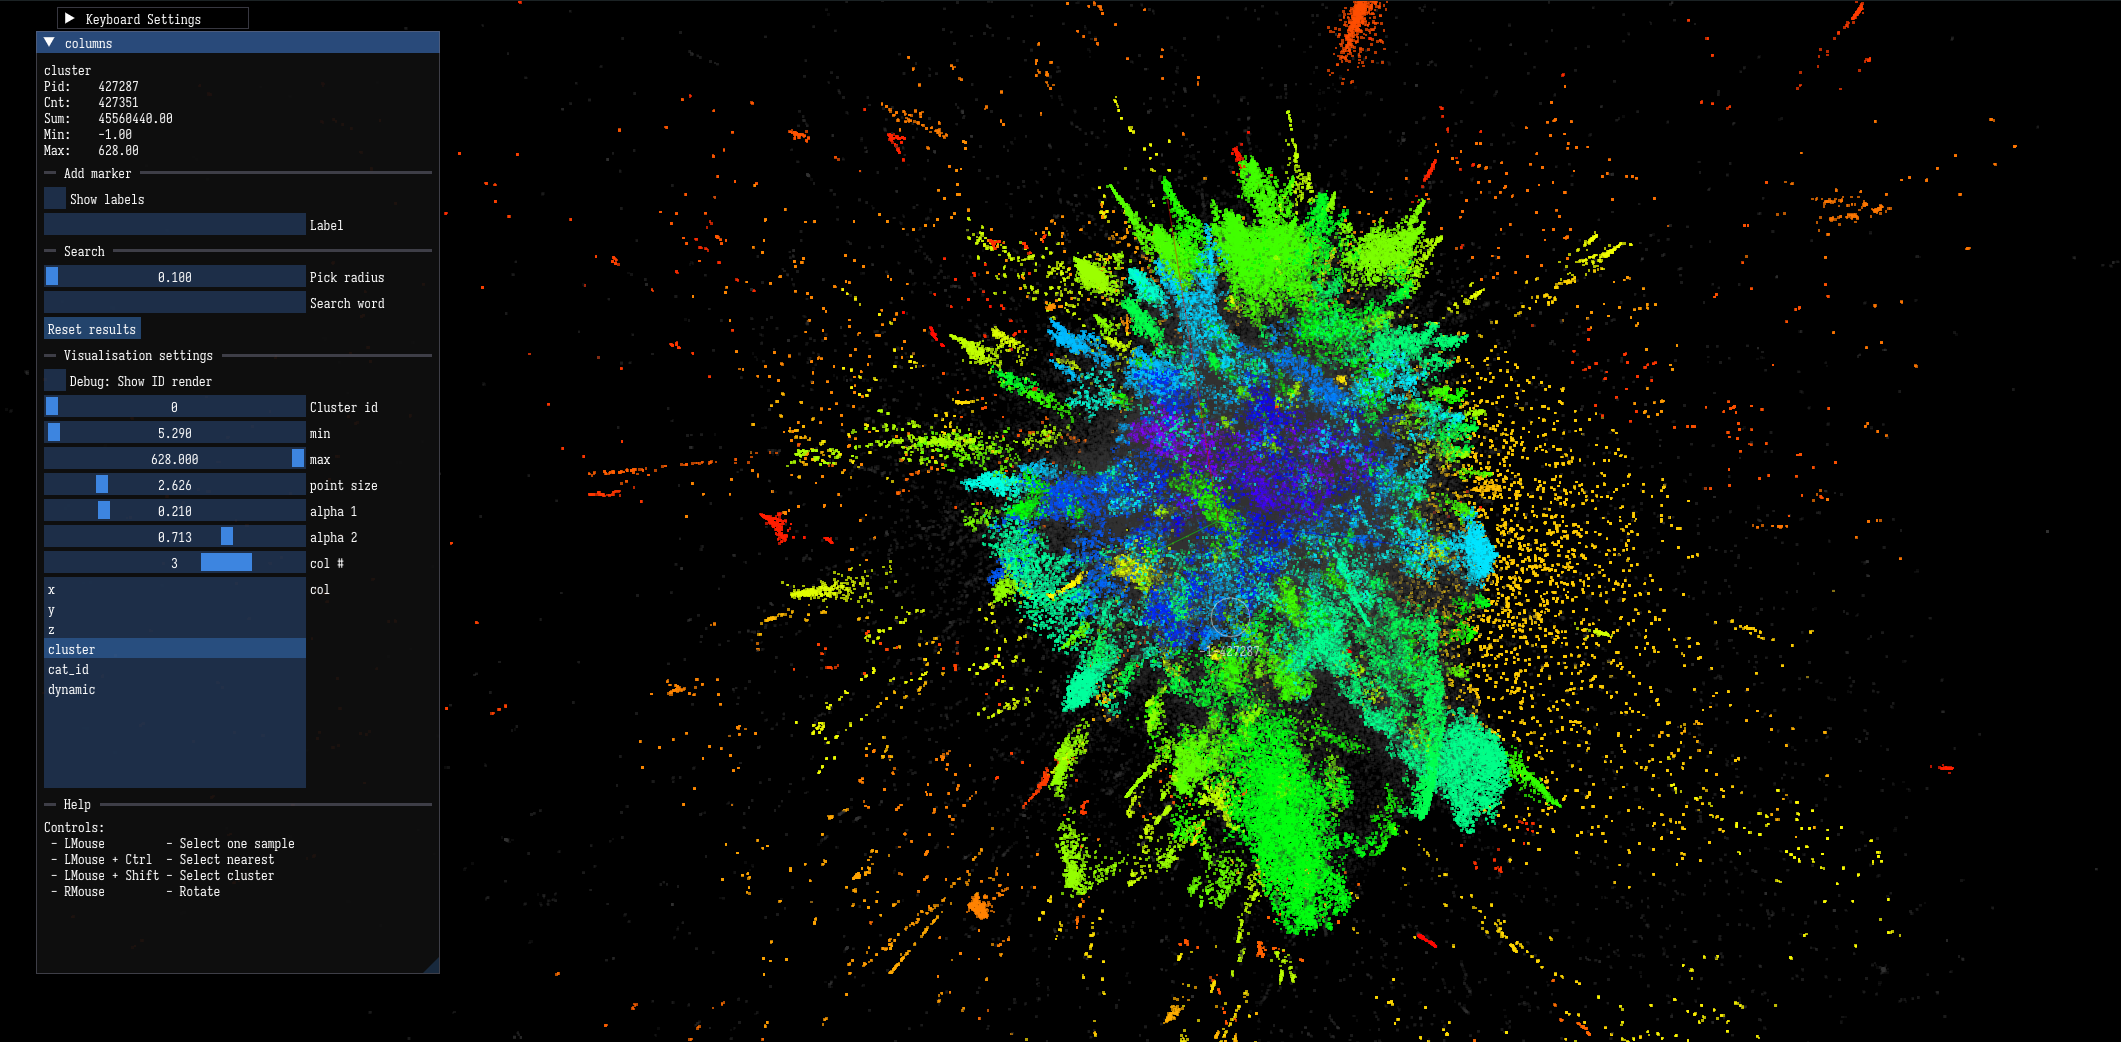
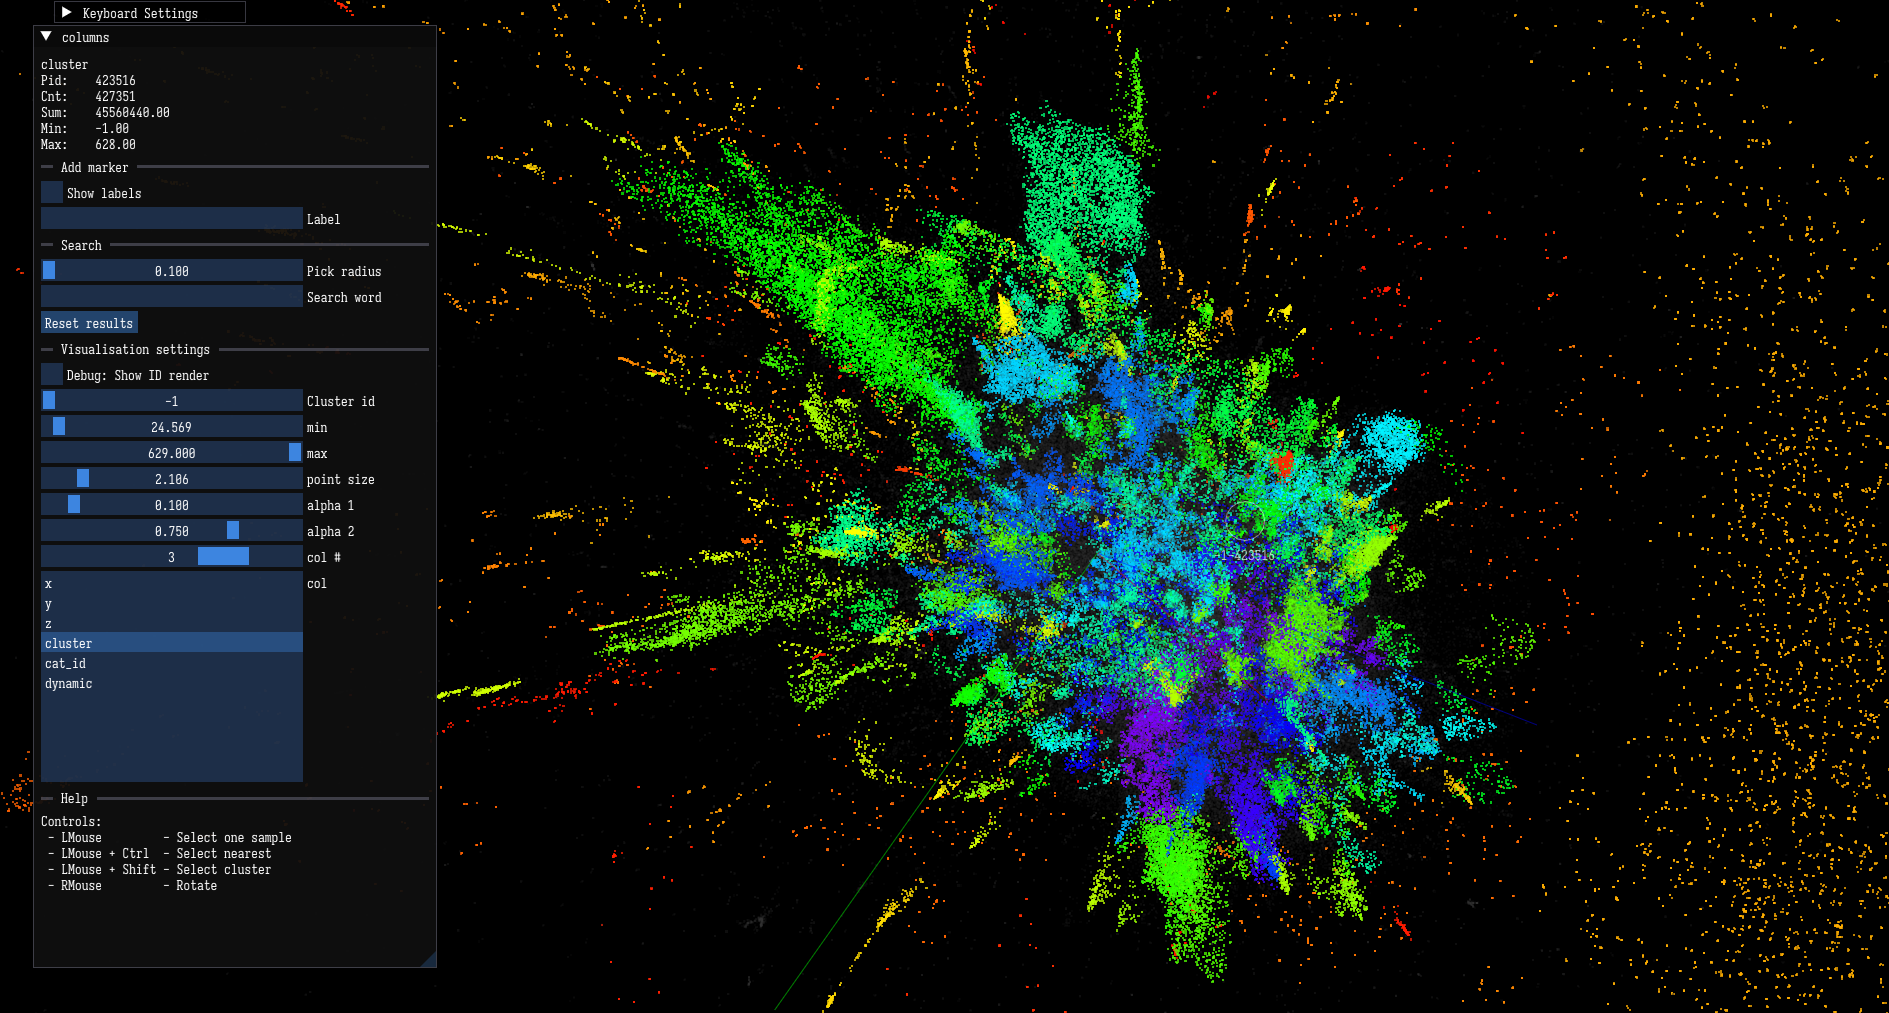
screenshot

diff --git a/src/scene.c b/src/scene.c
@@ -112,17 +112,17 @@ scene_do_picking(scene_p scene) {
     glReadPixels(mouse_x, screen_height - 1 - mouse_y, 1, 1, GL_RGBA, GL_UNSIGNED_BYTE, rgba);
     if(rgba[3]!=0) {
         // Decode 24-bit vertex ID from RGBA (24 bits fit in RGB channels)
-        picked_id = (rgba[0] << 24) | (rgba[1] << 16) | (rgba[2] << 8) | rgba[3];
-        picked_id >>= 8;
-        if(picked_id<0) picked_id = 0;
-        printf("%x %x %x %x = %09d\n", rgba[0], rgba[1], rgba[2], rgba[3], picked_id);
+        app_ctx.picked_id = (rgba[0] << 24) | (rgba[1] << 16) | (rgba[2] << 8) | rgba[3];
+        app_ctx.picked_id >>= 8;
+        if(app_ctx.picked_id<0) app_ctx.picked_id = 0;
+        printf("%x %x %x %x = %09d\n", rgba[0], rgba[1], rgba[2], rgba[3], app_ctx.picked_id);
 
         // Move camera target to the picked point's XYZ coordinates
-        float* picked = &data->data[picked_id*data->cols];
+        float* picked = &data->data[app_ctx.picked_id*data->cols];
         app_ctx.camera_target_tx = picked[0];
         app_ctx.camera_target_ty = picked[1];
         app_ctx.camera_target_tz = picked[2];
-        picked_cluster = picked[3];
+        app_ctx.picked_cluster = picked[3];
     }
 
     glBindFramebuffer(GL_FRAMEBUFFER, 0);
@@ -208,9 +208,9 @@ scene_render(scene_p scene) {
         shader_stop(shader);
         glDisable(GL_BLEND);
     } else {
-        if (render_id) {
+        if (app_ctx.render_id) {
             scene_do_picking(scene);
-            render_id = 0;
+            app_ctx.render_id = 0;
         }
 
         glBindFramebuffer(GL_FRAMEBUFFER, 0);
